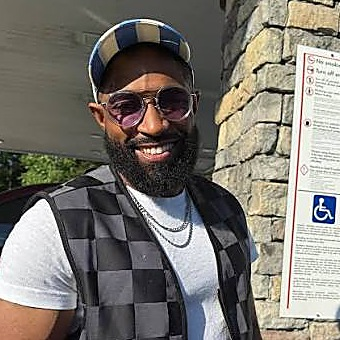
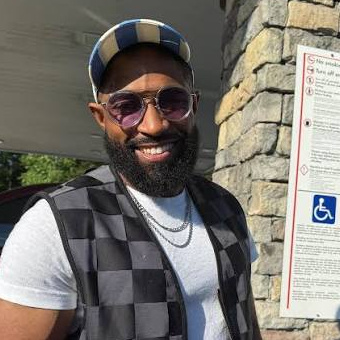
Roster cards: fill the header row, corner badge, higher-quality photos
- Move name/eyebrow/niche up beside the photo so the top row isn't half empty
- 'On the Roster' badge moves to the card's top-right corner, with clearance
  padding so the name and niche never run underneath it
- Re-export photos at 600px (4x the 150px display slot) at quality 95 with no
  chroma subsampling, lightly sharpened after downscaling; Koren stays at his
  native 340px rather than being upscaled

diff --git a/index.html b/index.html
@@ -541,14 +541,18 @@
 
         <!-- Featured roster creator -->
         <div class="cr-spotlight fade-in">
-          <div class="cr-spotlight-media">
-            <img src="/gina-labarbera.jpg" alt="Gina LaBarbera" class="cr-spotlight-img" width="1597" height="1597" />
-            <span class="cr-spotlight-badge">On the Roster</span>
+          <span class="cr-spotlight-badge">On the Roster</span>
+          <div class="cr-spotlight-head">
+            <div class="cr-spotlight-media">
+              <img src="/gina-labarbera.jpg" alt="Gina LaBarbera" class="cr-spotlight-img" width="1597" height="1597" />
+            </div>
+            <div class="cr-spotlight-head-text">
+              <div class="cr-spotlight-eyebrow">Featured Creator</div>
+              <h3 class="cr-spotlight-name">Gina LaBarbera</h3>
+              <p class="cr-spotlight-niche">Beauty · Skincare · Hair — Gen X UGC creator with a loyal, high-trust audience.</p>
+            </div>
           </div>
           <div class="cr-spotlight-body">
-            <div class="cr-spotlight-eyebrow">Featured Creator</div>
-            <h3 class="cr-spotlight-name">Gina LaBarbera</h3>
-            <p class="cr-spotlight-niche">Beauty · Skincare · Hair — Gen X UGC creator with a loyal, high-trust audience.</p>
             <p class="cr-spotlight-bio">A beauty and wellness creator known for her honest, “let's read the label” explainer style. Her audience comes to her for real recommendations they can trust — which is exactly why brands do too.</p>
 
             <div class="cr-spotlight-stats">
@@ -570,14 +574,18 @@
 
         <!-- Featured roster creator -->
         <div class="cr-spotlight fade-in">
-          <div class="cr-spotlight-media">
-            <img src="/phat-as.jpg" alt="Phát AS" class="cr-spotlight-img" width="842" height="842" />
-            <span class="cr-spotlight-badge">On the Roster</span>
+          <span class="cr-spotlight-badge">On the Roster</span>
+          <div class="cr-spotlight-head">
+            <div class="cr-spotlight-media">
+              <img src="/phat-as.jpg" alt="Phát AS" class="cr-spotlight-img" width="842" height="842" />
+            </div>
+            <div class="cr-spotlight-head-text">
+              <div class="cr-spotlight-eyebrow">Featured Creator</div>
+              <h3 class="cr-spotlight-name">Phát AS</h3>
+              <p class="cr-spotlight-niche">Food, Drinks &amp; Beverages — strong Asian audience across TikTok, YouTube &amp; Facebook.</p>
+            </div>
           </div>
           <div class="cr-spotlight-body">
-            <div class="cr-spotlight-eyebrow">Featured Creator</div>
-            <h3 class="cr-spotlight-name">Phát AS</h3>
-            <p class="cr-spotlight-niche">Food, Drinks &amp; Beverages — strong Asian audience across TikTok, YouTube &amp; Facebook.</p>
             <p class="cr-spotlight-bio">Creator of <em>Ăn Theo Comment</em> — a series built entirely from his audience's comments, turning each one into a new dish and a new story. For Phát, food isn't just something to enjoy; it's how people listen, share and connect. That two-way relationship is why his community shows up in the millions every month.</p>
 
             <div class="cr-spotlight-stats">
@@ -598,14 +606,18 @@
 
         <!-- Featured roster creator -->
         <div class="cr-spotlight fade-in">
-          <div class="cr-spotlight-media">
-            <img src="/koren-rolle.jpg" alt="Koren Rolle" class="cr-spotlight-img" width="340" height="340" />
-            <span class="cr-spotlight-badge">On the Roster</span>
+          <span class="cr-spotlight-badge">On the Roster</span>
+          <div class="cr-spotlight-head">
+            <div class="cr-spotlight-media">
+              <img src="/koren-rolle.jpg" alt="Koren Rolle" class="cr-spotlight-img" width="340" height="340" />
+            </div>
+            <div class="cr-spotlight-head-text">
+              <div class="cr-spotlight-eyebrow">Featured Creator</div>
+              <h3 class="cr-spotlight-name">Koren Rolle</h3>
+              <p class="cr-spotlight-niche">Music &amp; Entertainment · Lifestyle · Wellness · Tech · Food &amp; Travel — natural, UGC-style product storytelling.</p>
+            </div>
           </div>
           <div class="cr-spotlight-body">
-            <div class="cr-spotlight-eyebrow">Featured Creator</div>
-            <h3 class="cr-spotlight-name">Koren Rolle</h3>
-            <p class="cr-spotlight-niche">Music &amp; Entertainment · Lifestyle · Wellness · Tech · Food &amp; Travel — natural, UGC-style product storytelling.</p>
             <p class="cr-spotlight-bio">Atlanta-based creator, musician and on-camera talent, available worldwide. In his own words: short-form content built to stop the scroll, explain the product and make the viewer care — from music and entertainment to product demos and paid ad creative, with 3-day turnaround available.</p>
 
             <div class="cr-spotlight-stats">

diff --git a/src/style.css b/src/style.css
@@ -2669,6 +2669,7 @@ footer { background: var(--text); color: #fff; padding: 80px 48px 40px; }
 }
 
 .cr-spotlight {
+  position: relative;          /* anchors the "On the Roster" badge */
   display: flex;
   flex-direction: column;
   gap: 20px;
@@ -2679,7 +2680,17 @@ footer { background: var(--text); color: #fff; padding: 80px 48px 40px; }
   box-shadow: 0 1px 2px rgba(20, 20, 20, 0.04);
 }
 
-.cr-spotlight-media { position: relative; width: 150px; }
+/* Photo sits beside the name/niche so the top row isn't half empty */
+.cr-spotlight-head {
+  display: flex;
+  align-items: center;
+  gap: 18px;
+}
+/* Right padding keeps the name/niche clear of the corner badge */
+.cr-spotlight-head-text { min-width: 0; padding-right: 96px; }
+.cr-spotlight-head-text .cr-spotlight-niche { margin-bottom: 0; }
+
+.cr-spotlight-media { position: relative; width: 150px; flex-shrink: 0; }
 /* Small, equal square photo — same size for every creator */
 .cr-spotlight-img {
   width: 150px;
@@ -2710,8 +2721,8 @@ footer { background: var(--text); color: #fff; padding: 80px 48px 40px; }
 }
 .cr-spotlight-badge {
   position: absolute;
-  top: 14px;
-  left: 14px;
+  top: 16px;
+  right: 16px;
   font-family: var(--sans);
   font-size: 0.6875rem;
   font-weight: 600;